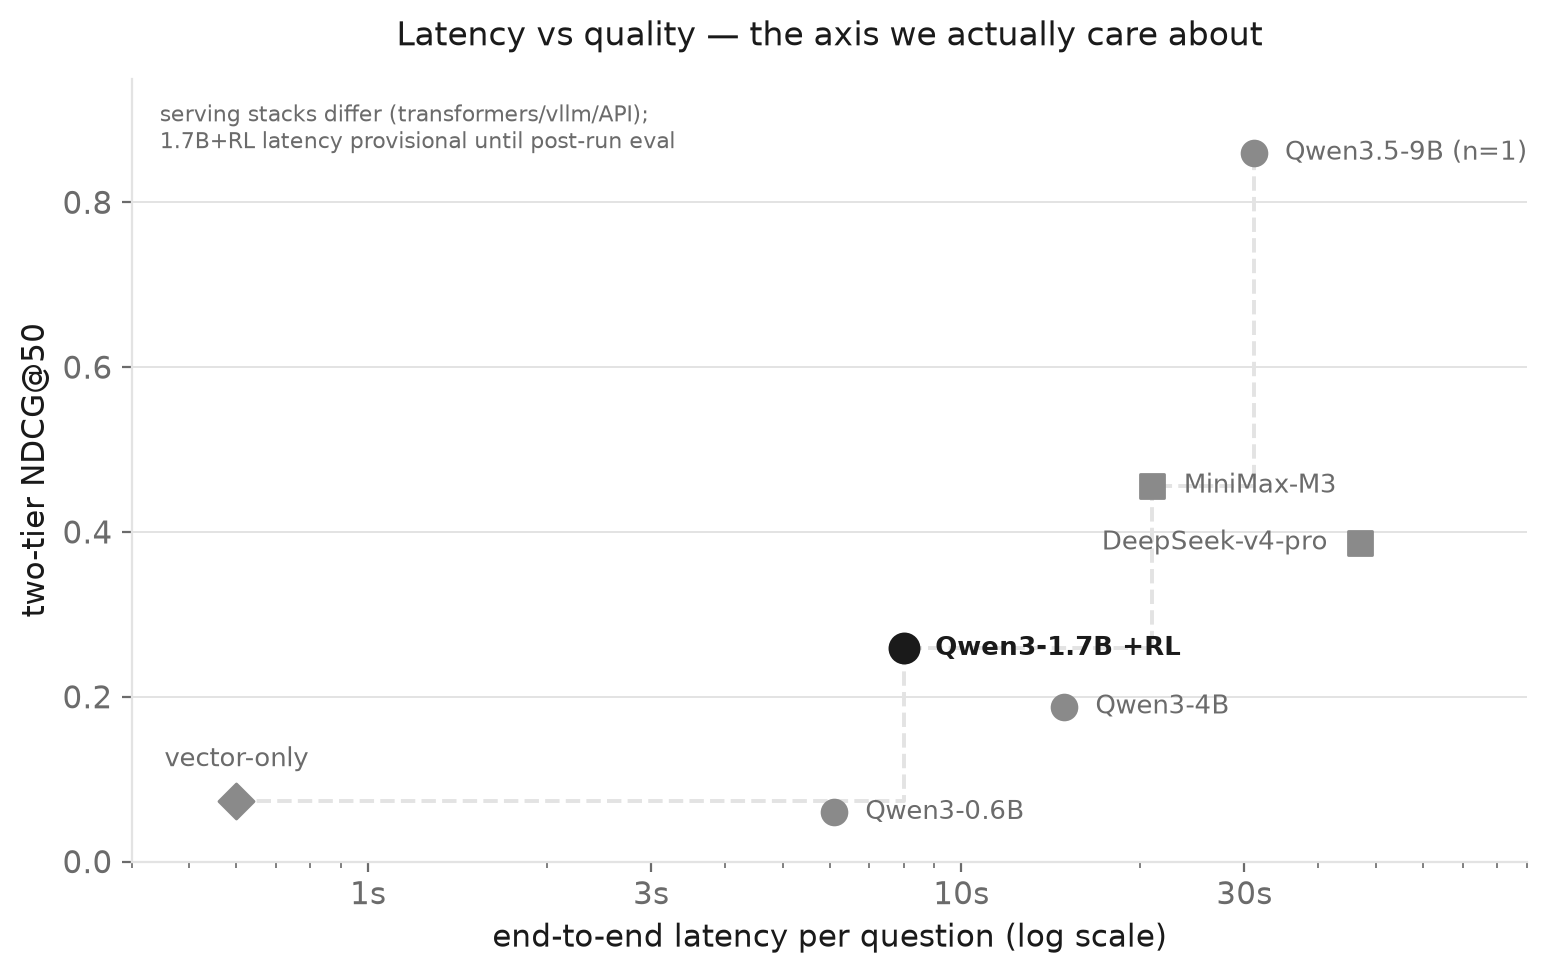
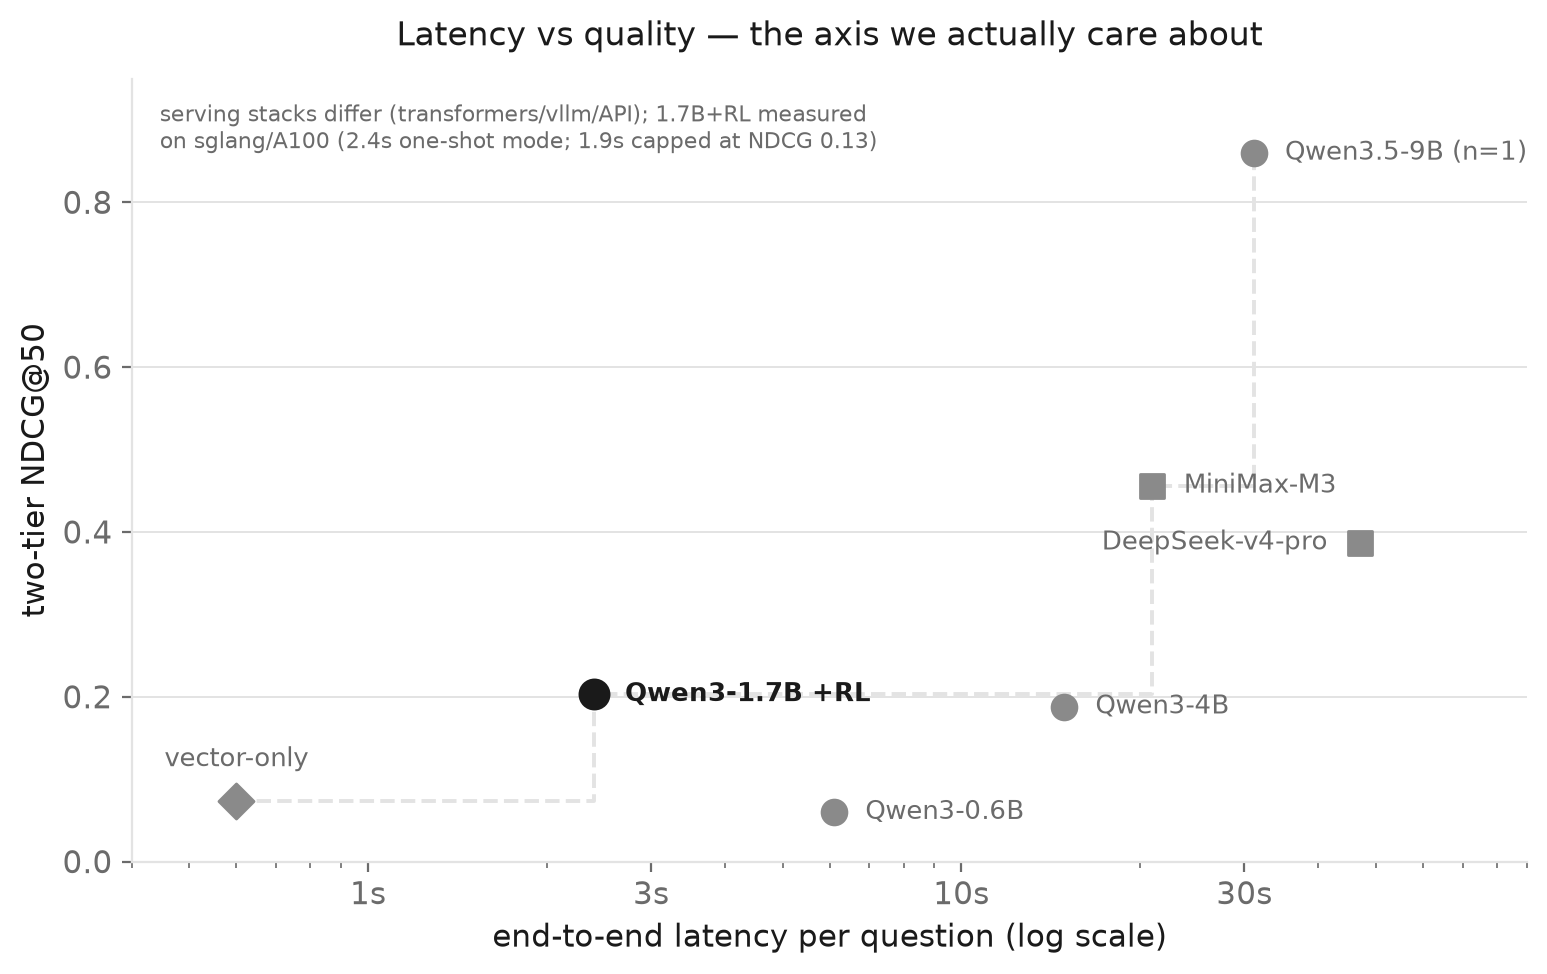
presentation: final measured numbers — val 0.282, latency sprint results

Changed region(s): [[0.0931, 0.0924, 0.5585, 0.154], [0.3723, 0.6776, 0.5895, 0.7392], [0.5585, 0.6468, 0.7757, 0.6776]]

diff --git a/presentation/make_figures.py b/presentation/make_figures.py
@@ -32,7 +32,7 @@ plt.rcParams.update({
 # ---------------------------------------------------------------- figure 1
 # params (B) -> NDCG. pre-RL in grey, post-RL in black.
 pre = {0.6: 0.060, 1.7: 0.129, 4.0: 0.188}   # 0.6B/4B pilot-style sets, 1.7B = val@step0
-post = {1.7: 0.259}                            # val@step40, still training
+post = {1.7: 0.282}                            # val@step60, final
 anecdote = (9.0, 0.86)                         # Qwen3.5-9B, n=1 -- shown, not fitted
 
 fig, ax = plt.subplots(figsize=(8, 5), dpi=200)
@@ -57,7 +57,7 @@ ax.scatter([px], [py], s=110, color=INK, zorder=5)
 # the lift arrow at 1.7B
 ax.annotate("", xy=(px, py - 0.008), xytext=(px, pre[1.7] + 0.008),
             arrowprops=dict(arrowstyle="-|>", color=INK, lw=1.6))
-ax.annotate("+0.13 NDCG\n(~90 min RL, 1x A100)", xy=(px * 0.88, (py + pre[1.7]) / 2),
+ax.annotate("+0.15 NDCG\n(2.4h RL, 1x A100)", xy=(px * 0.88, (py + pre[1.7]) / 2),
             fontsize=9.5, color=INK, va="center", ha="right")
 
 # 9B anecdote: hollow marker, clearly flagged
@@ -99,7 +99,7 @@ pts = [
     ("Qwen3.5-9B (n=1)", 31.1, 0.86, "local", False),
     ("MiniMax-M3", 21.0, 0.456, "api", False),
     ("DeepSeek-v4-pro", 47.1, 0.387, "api", False),
-    ("Qwen3-1.7B +RL", 8.0, 0.259, "local", True),  # latency provisional: post-run eval pending
+    ("Qwen3-1.7B +RL", 2.4, 0.203, "local", True),  # MEASURED: n=50 pilot, one-shot mode, sglang/A100
 ]
 
 fig2, ax2 = plt.subplots(figsize=(8, 5), dpi=200)
@@ -137,7 +137,7 @@ ax2.set_ylabel("two-tier NDCG@50")
 ax2.set_title("Latency vs quality — the axis we actually care about", fontsize=12, pad=12)
 ax2.grid(axis="y", color=GRID, lw=0.7)
 ax2.spines[["top", "right"]].set_visible(False)
-ax2.annotate("serving stacks differ (transformers/vllm/API);\n1.7B+RL latency provisional until post-run eval",
+ax2.annotate("serving stacks differ (transformers/vllm/API); 1.7B+RL measured\non sglang/A100 (2.4s one-shot mode; 1.9s capped at NDCG 0.13)",
              xy=(0.02, 0.97), xycoords="axes fraction", fontsize=8, color=MUT, va="top")
 fig2.tight_layout()
 fig2.savefig("presentation/fig_pareto.png", bbox_inches="tight")

diff --git a/presentation/slides.md b/presentation/slides.md
@@ -168,7 +168,7 @@ verl 0.8 + sglang, multi-turn tool rollouts (batch 32 x group 8 = 256/step),
 length schedule 2048 -> 4096, ~170s/step.
 
 ```
-train reward   0.07 ─────► 0.23   (steps 1-31, still climbing)
+train reward   0.07 ─────► 0.285  (60 steps, never flattened)
 response len   1,900 ─────► 1,300 tokens   (less waffle, more reward)
 tool turns     ~5.5 ─────► ~4.2            (fewer, better-aimed calls)
 ```
@@ -179,14 +179,15 @@ tool turns     ~5.5 ─────► ~4.2            (fewer, better-aimed call
 
 ```
 step 0:    0.129          <- untrained 1.7B
-step ~15:  0.180
-step 30:   0.218          <- +69%, still rising into stage 2
+step 30:   0.218
+step 60:   0.282          <- +119%, FINAL
 ```
 
 <!-- pause -->
 
-**The headline: after ~90 minutes of RL, the 1.7B passes the untrained 4B
-(0.188) — a model 2.4x its size.** Total training cost: about the price of lunch.
+**The headline: 2.4 hours of RL takes the 1.7B past the untrained 4B (0.188)
+— a model 2.4x its size — and to 62%% of MiniMax-M3's frontier score.**
+Total training cost: about the price of lunch.
 
 <!-- end_slide -->
 
@@ -202,9 +203,20 @@ Latency is what we actually care about
 
 ![](fig_pareto.png)
 
-MiniMax-M3: 0.456 NDCG at 21s/q. DeepSeek-v4-pro: 0.387 at **47s/q**.
-Our trained 1.7B: 0.259 at ~8s/q on modest serving — and the whole point
-of a small policy is that this latency has real headroom left.
+**Measured on the trained 1.7B (sglang, A100, single-stream):**
+
+| mode | wall/q | NDCG |
+|---|---|---|
+| as trained | 2.58s | 0.167 |
+| "batch your tool calls" prompt | 2.50s | **0.199** (+19% free) |
+| + hard 2-turn cap | 2.19s | 0.183 |
+| aggressive cap | **1.86s** | 0.132 |
+
+Found along the way: telling the model to batch tool calls in ONE turn made it
+fire 10.5 parallel calls instead of 6.6 sequential ones — **quality up 19% at
+equal latency.** Decode is now the floor (~480 tok @ ~200 tok/s); the path to
+~1s is H200 bandwidth + fp8 + the 2-turn shape, not more prompt surgery.
+(MiniMax-M3: 21s/q. DeepSeek-v4-pro: 47s/q.)
 
 <!-- end_slide -->
 